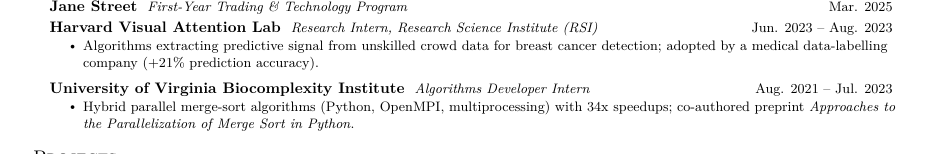
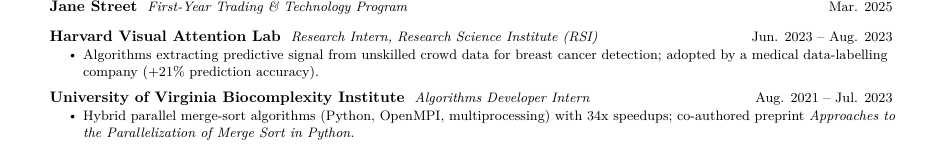
Resume: Jane Street spacing

Changed region(s): [[0.031, 0.5195, 0.9615, 0.9091], [0.031, 0.1299, 0.9615, 0.5195], [0.031, 0.961, 0.1241, 1.0]]

diff --git a/resume/resume.tex b/resume/resume.tex
@@ -113,7 +113,7 @@
 
     \resumeSubheading
       {Jane Street}{First-Year Trading \& Technology Program}{Mar. 2025}
-      \vspace{3pt}
+      \vspace{9pt}
 
     \resumeSubheading
       {Harvard Visual Attention Lab}{Research Intern, Research Science Institute (RSI)}{Jun. 2023 -- Aug. 2023}
